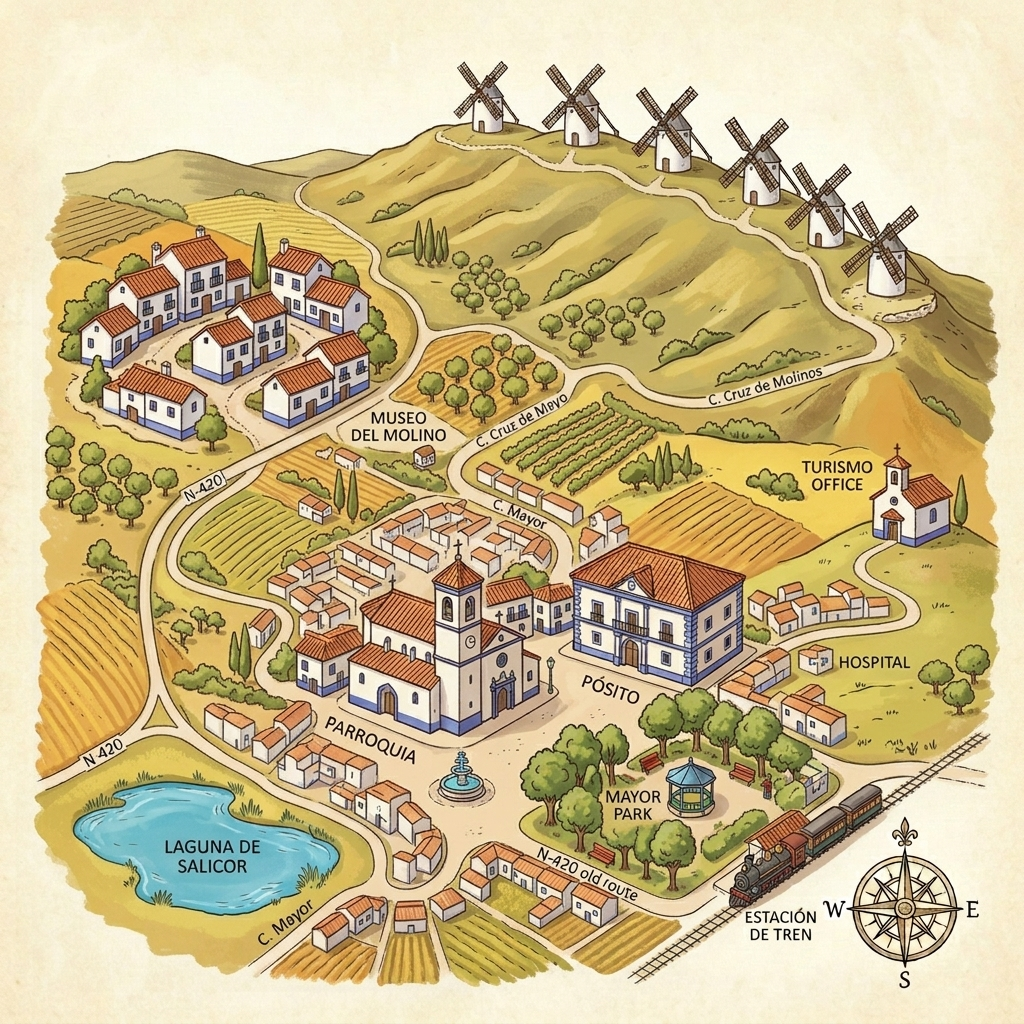
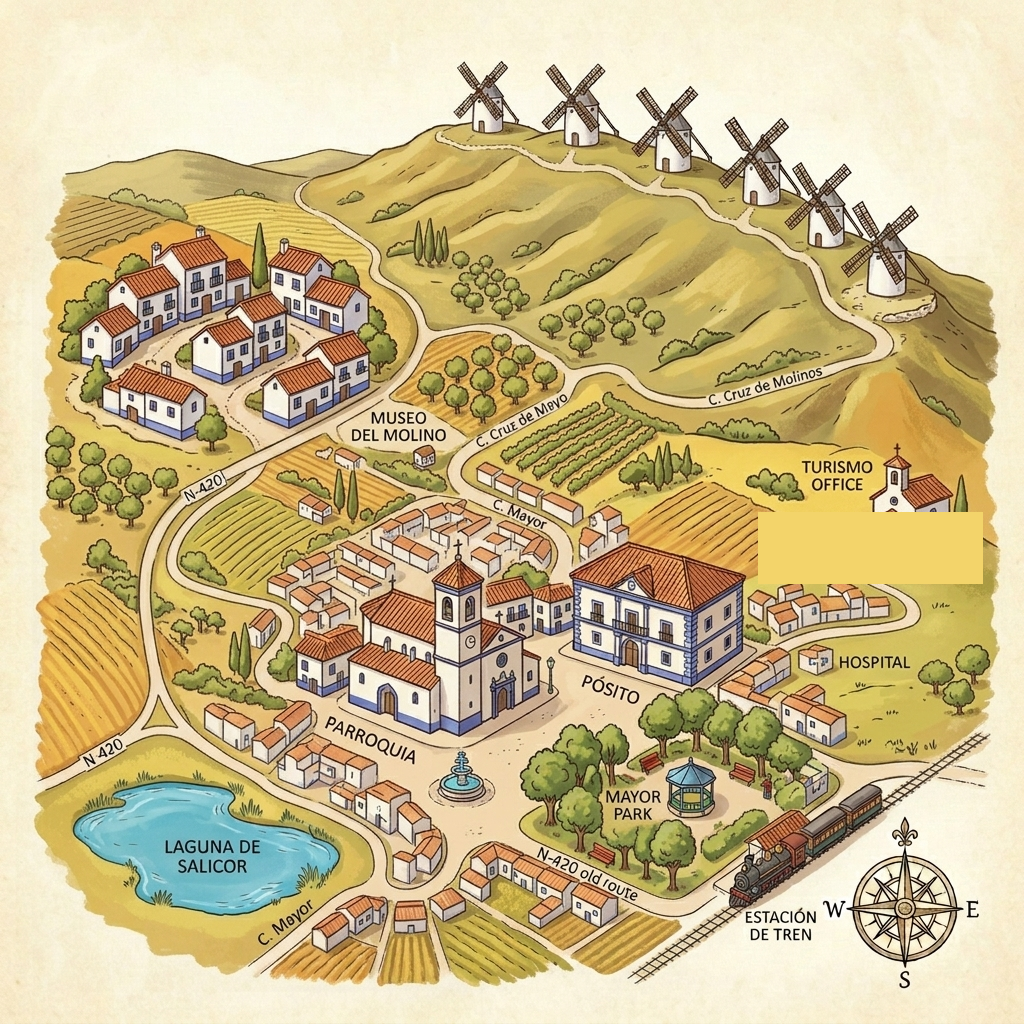
fix: lock down approved hand-painted map asset

Changed region(s): [[0.7188, 0.5, 0.9688, 0.5938]]

diff --git a/index-en.html b/index-en.html
@@ -1205,7 +1205,7 @@
               <div style="display: grid; grid-template-columns: 1fr 350px; gap: 20px; align-items: start;">
                 <!-- Left Panel: Hand-Painted Image Workspace -->
                 <div style="position: relative; border-radius: 12px; overflow: hidden; box-shadow: 0 8px 24px rgba(0,0,0,0.15);">
-                  <img src="images/criptana_navigation_canvas.png?v=1" alt="Mapa Pictórico" style="width: 100%; display: block;" />
+                  <img src="images/criptana_navigation_canvas.png?v=2" alt="Mapa Pictórico" style="width: 100%; display: block;" />
                   <svg viewBox="0 0 100 100" style="position: absolute; top: 0; left: 0; width: 100%; height: 100%; pointer-events: none;">
                     <path id="souvenir-route-line" d="" fill="none" stroke="#d4af37" stroke-width="0.8" stroke-linecap="round" stroke-linejoin="round" stroke-dasharray="1.5,1" />
                   </svg>

diff --git a/index.html b/index.html
@@ -1205,7 +1205,7 @@
               <div style="display: grid; grid-template-columns: 1fr 350px; gap: 20px; align-items: start;">
                 <!-- Left Panel: Hand-Painted Image Workspace -->
                 <div style="position: relative; border-radius: 12px; overflow: hidden; box-shadow: 0 8px 24px rgba(0,0,0,0.15);">
-                  <img src="images/criptana_navigation_canvas.png?v=1" alt="Mapa Pictórico" style="width: 100%; display: block;" />
+                  <img src="images/criptana_navigation_canvas.png?v=2" alt="Mapa Pictórico" style="width: 100%; display: block;" />
                   <svg viewBox="0 0 100 100" style="position: absolute; top: 0; left: 0; width: 100%; height: 100%; pointer-events: none;">
                     <path id="souvenir-route-line" d="" fill="none" stroke="#d4af37" stroke-width="0.8" stroke-linecap="round" stroke-linejoin="round" stroke-dasharray="1.5,1" />
                   </svg>
